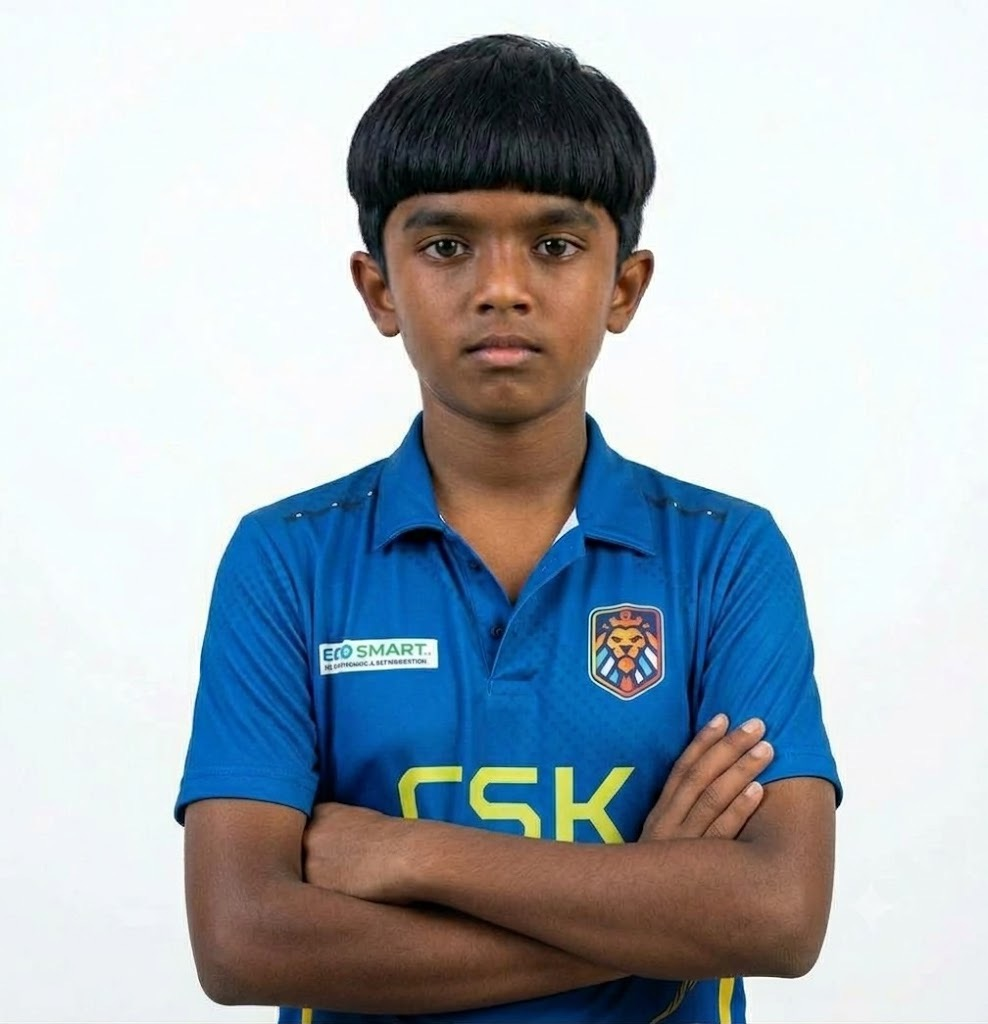
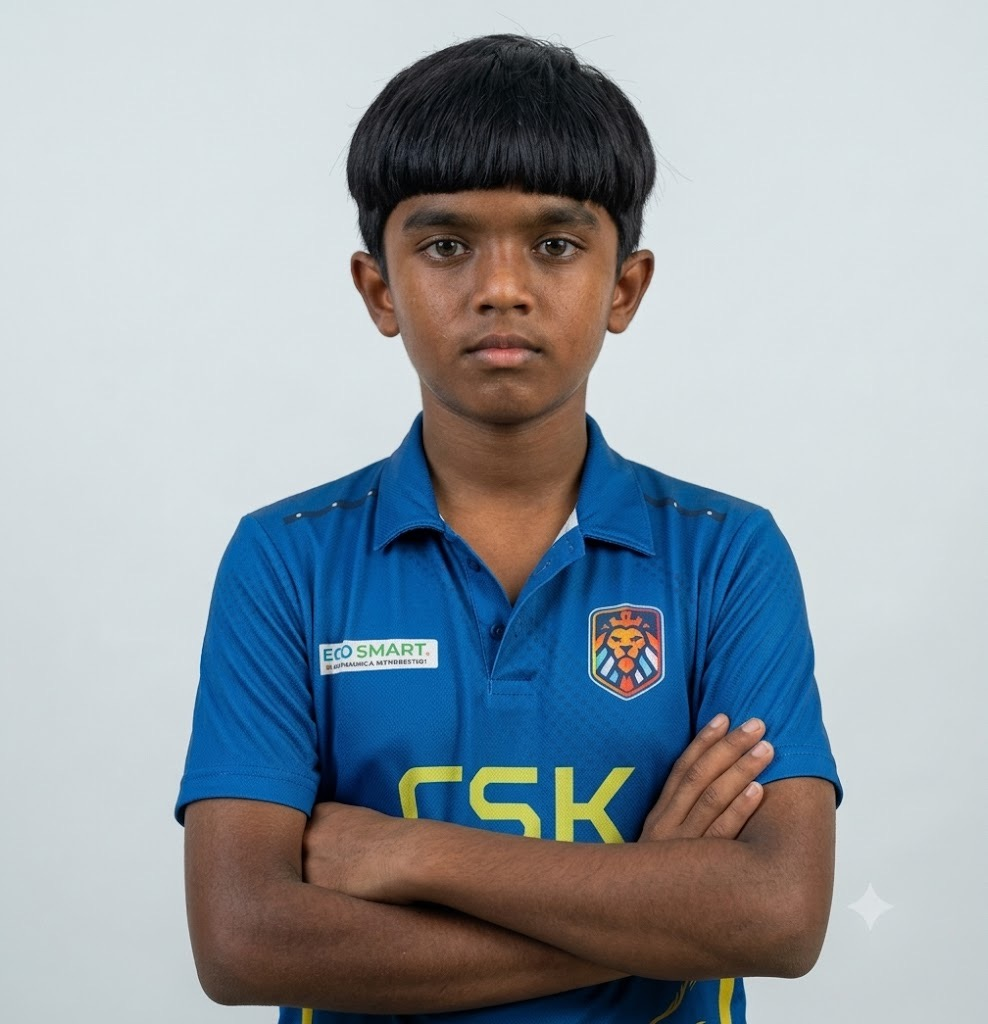
fix(squad): update Rishab Dev photo with high-res official CSK jersey portrait

diff --git a/js/content-store.js b/js/content-store.js
@@ -15,7 +15,7 @@ class ContentStore {
     if (!forceRefresh && this.cache[path]) return this.cache[path];
     try {
       const sep = path.includes('?') ? '&' : '?';
-      const url = forceRefresh ? `${path}${sep}_t=${Date.now()}` : `${path}${sep}v=20261019_squad_v4_realyouth`;
+      const url = forceRefresh ? `${path}${sep}_t=${Date.now()}` : `${path}${sep}v=20261020_rishabh_real`;
       const res = await fetch(url);
       if (!res.ok) throw new Error(`HTTP error! status: ${res.status}`);
       const data = await res.json();
